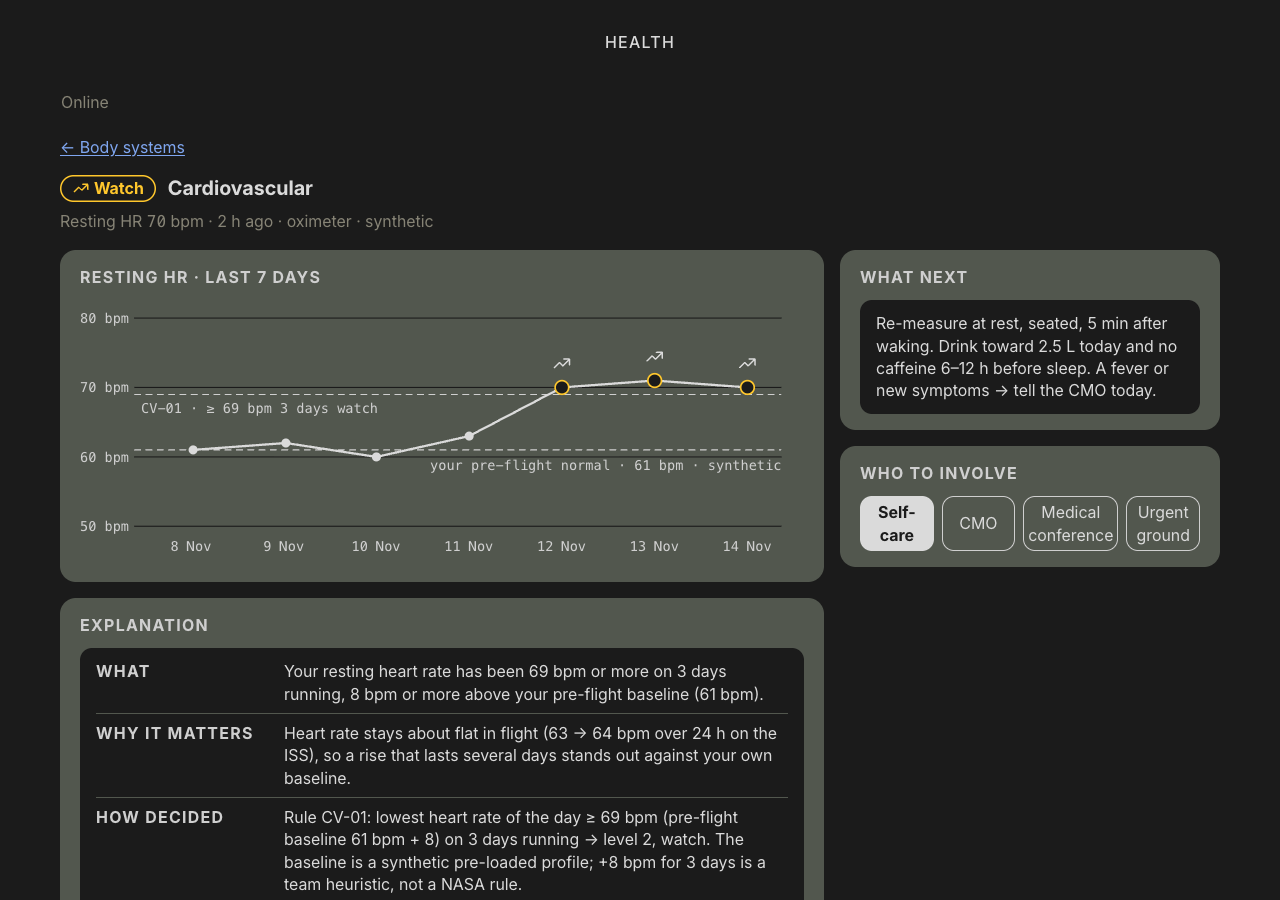
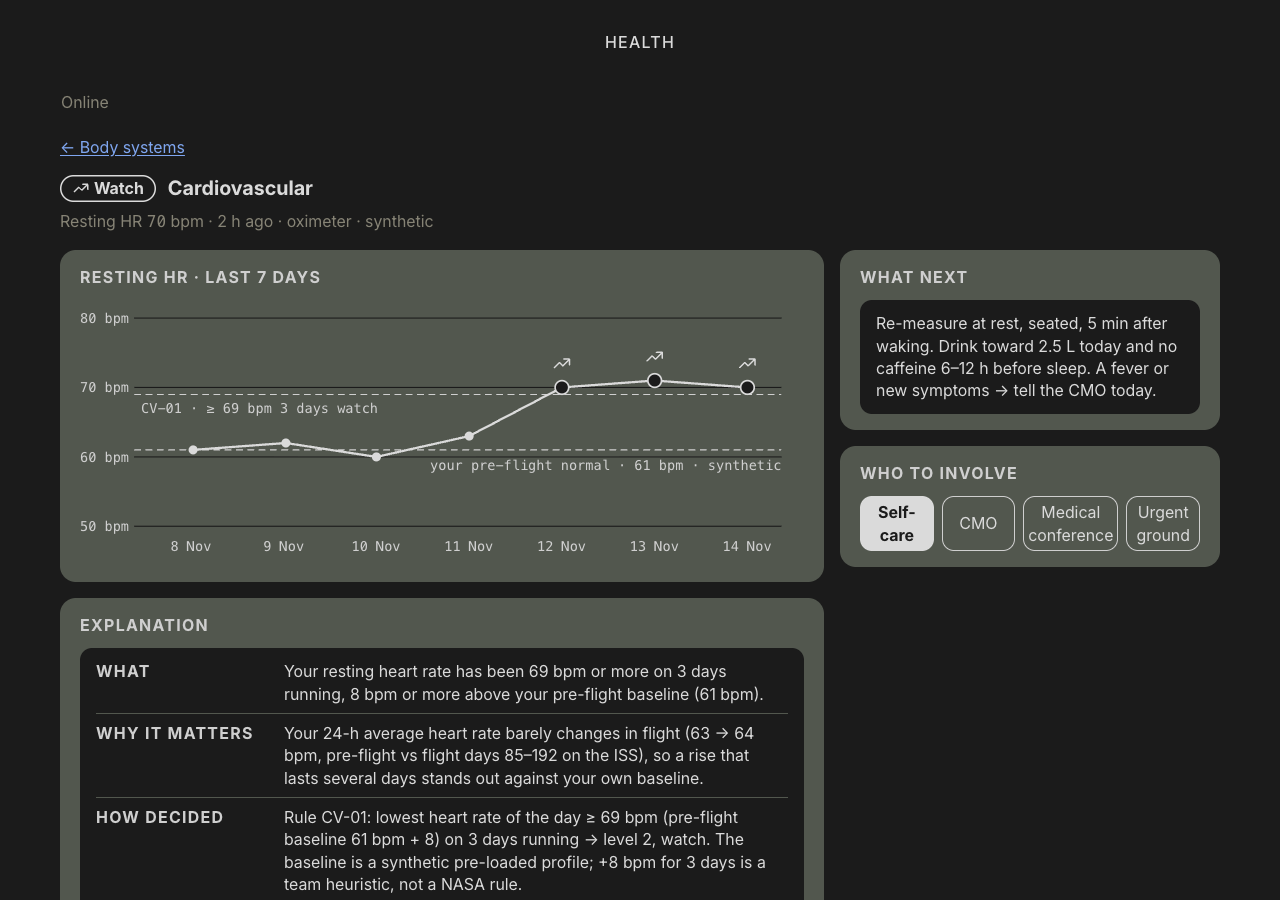
docs(cardiovascular): mock Watch badge without colour as #33, sourced why text (#34)

Changed region(s): [[0.2188, 0.8089, 0.625, 0.8711], [0.0625, 0.1867, 0.125, 0.2178]]

diff --git a/docs/features/34-resting-hr-drift.mock.html b/docs/features/34-resting-hr-drift.mock.html
@@ -1,5 +1,5 @@
 <!doctype html>
-<!-- Static mock for issue #34 (resting HR drift rule CV-01 on the Cardiovascular detail), built on the app's tokens and classes. The Watch badge is inline-styled from ideas/alert-levels.md (dark) until #33 adds badge--watch. Screenshot: node docs/features/34-resting-hr-drift.mock.mjs -->
+<!-- Static mock for issue #34 (resting HR drift rule CV-01 on the Cardiovascular detail), built on the app's tokens and classes. The Watch badge and points are inline-styled as #33 AC28 (no colour) until #33 lands. Screenshot: node docs/features/34-resting-hr-drift.mock.mjs -->
 <html lang="en"><head><meta charset="utf-8">
 <link rel="stylesheet" href="../../src/main/frontend/src/ui/theme/tokens.css">
 <link rel="stylesheet" href="../../src/main/frontend/src/ui/theme/base.css">
@@ -13,7 +13,7 @@
 .tiers li[aria-current]{background:var(--color-inverse-bg);color:var(--color-inverse-text);border-color:transparent;font-weight:700}
 svg text{fill:var(--color-text-muted);font-size:12px;font-family:var(--font-data)}
 .next{margin:0;padding:var(--space-3) var(--space-4);border-radius:var(--radius-item);background:var(--color-inset)}
-.watch{display:inline-flex;align-items:center;gap:4px;padding:2px 12px;border-radius:999px;font-weight:700;color:#FFC72C;box-shadow:inset 0 0 0 1.5px #FFC72C}
+.watch{display:inline-flex;align-items:center;gap:4px;padding:2px 12px;border-radius:999px;font-weight:700;color:var(--color-text);box-shadow:inset 0 0 0 1.5px var(--color-text)}
 .watch svg,.mark{fill:none;stroke:currentColor;stroke-width:1.75;stroke-linecap:round;stroke-linejoin:round}
 </style></head>
 <body><div class="app">
@@ -39,9 +39,9 @@ svg text{fill:var(--color-text-muted);font-size:12px;font-family:var(--font-data
       <text x="54" y="100">CV-01 · ≥ 69 bpm 3 days watch</text>
       <polyline fill="none" stroke="var(--color-text)" stroke-width="2" points="100,132.5 182,126.4 262,138.7 344,120.3 426,77.3 508,71.2 590,77.3"/>
       <circle cx="100" cy="132.5" r="4" fill="var(--color-text)"/><circle cx="182" cy="126.4" r="4" fill="var(--color-text)"/><circle cx="262" cy="138.7" r="4" fill="var(--color-text)"/><circle cx="344" cy="120.3" r="4" fill="var(--color-text)"/>
-      <circle cx="426" cy="77.3" r="6" fill="var(--color-bg)" stroke="#FFC72C" stroke-width="1.5"/>
-      <circle cx="508" cy="71.2" r="6" fill="var(--color-bg)" stroke="#FFC72C" stroke-width="1.5"/>
-      <circle cx="590" cy="77.3" r="6" fill="var(--color-bg)" stroke="#FFC72C" stroke-width="1.5"/>
+      <circle cx="426" cy="77.3" r="6" fill="var(--color-inset)" stroke="var(--color-text)" stroke-width="1.5"/>
+      <circle cx="508" cy="71.2" r="6" fill="var(--color-inset)" stroke="var(--color-text)" stroke-width="1.5"/>
+      <circle cx="590" cy="77.3" r="6" fill="var(--color-inset)" stroke="var(--color-text)" stroke-width="1.5"/>
       <svg class="mark" x="417" y="47" width="18" height="18" viewBox="0 0 24 24" color="var(--color-text)"><path d="M3 17l6 -6l4 4l8 -8"/><path d="M14 7l7 0l0 7"/></svg>
       <svg class="mark" x="499" y="41" width="18" height="18" viewBox="0 0 24 24" color="var(--color-text)"><path d="M3 17l6 -6l4 4l8 -8"/><path d="M14 7l7 0l0 7"/></svg>
       <svg class="mark" x="581" y="47" width="18" height="18" viewBox="0 0 24 24" color="var(--color-text)"><path d="M3 17l6 -6l4 4l8 -8"/><path d="M14 7l7 0l0 7"/></svg>
@@ -52,9 +52,9 @@ svg text{fill:var(--color-text-muted);font-size:12px;font-family:var(--font-data
     <h3 class="card-heading">Explanation</h3>
     <dl class="status-explanation">
       <div><dt>What</dt><dd>Your resting heart rate has been 69 bpm or more on 3 days running, 8 bpm or more above your pre-flight baseline (61 bpm).</dd></div>
-      <div><dt>Why it matters</dt><dd>Heart rate stays about flat in flight (63 → 64 bpm over 24 h on the ISS), so a rise that lasts several days stands out against your own baseline.</dd></div>
+      <div><dt>Why it matters</dt><dd>Your 24-h average heart rate barely changes in flight (63 → 64 bpm, pre-flight vs flight days 85–192 on the ISS), so a rise that lasts several days stands out against your own baseline.</dd></div>
       <div><dt>How decided</dt><dd>Rule CV-01: lowest heart rate of the day ≥ 69 bpm (pre-flight baseline 61 bpm + 8) on 3 days running → level 2, watch. The baseline is a synthetic pre-loaded profile; +8 bpm for 3 days is a team heuristic, not a NASA rule.</dd></div>
-      <div><dt>Source</dt><dd>research/health-indicators.md §1 [S26]; research/countermeasures.md [C2][C6] <span class="tag tag--rule">rule · CV-01</span></dd></div>
+      <div><dt>Source</dt><dd>research/health-indicators.md §1 [S26]; research/countermeasures.md [C2][C6]; ideas/crew-health-companion.md check-and-act table <span class="tag tag--rule">rule · CV-01</span></dd></div>
     </dl>
   </section>
 </div>
